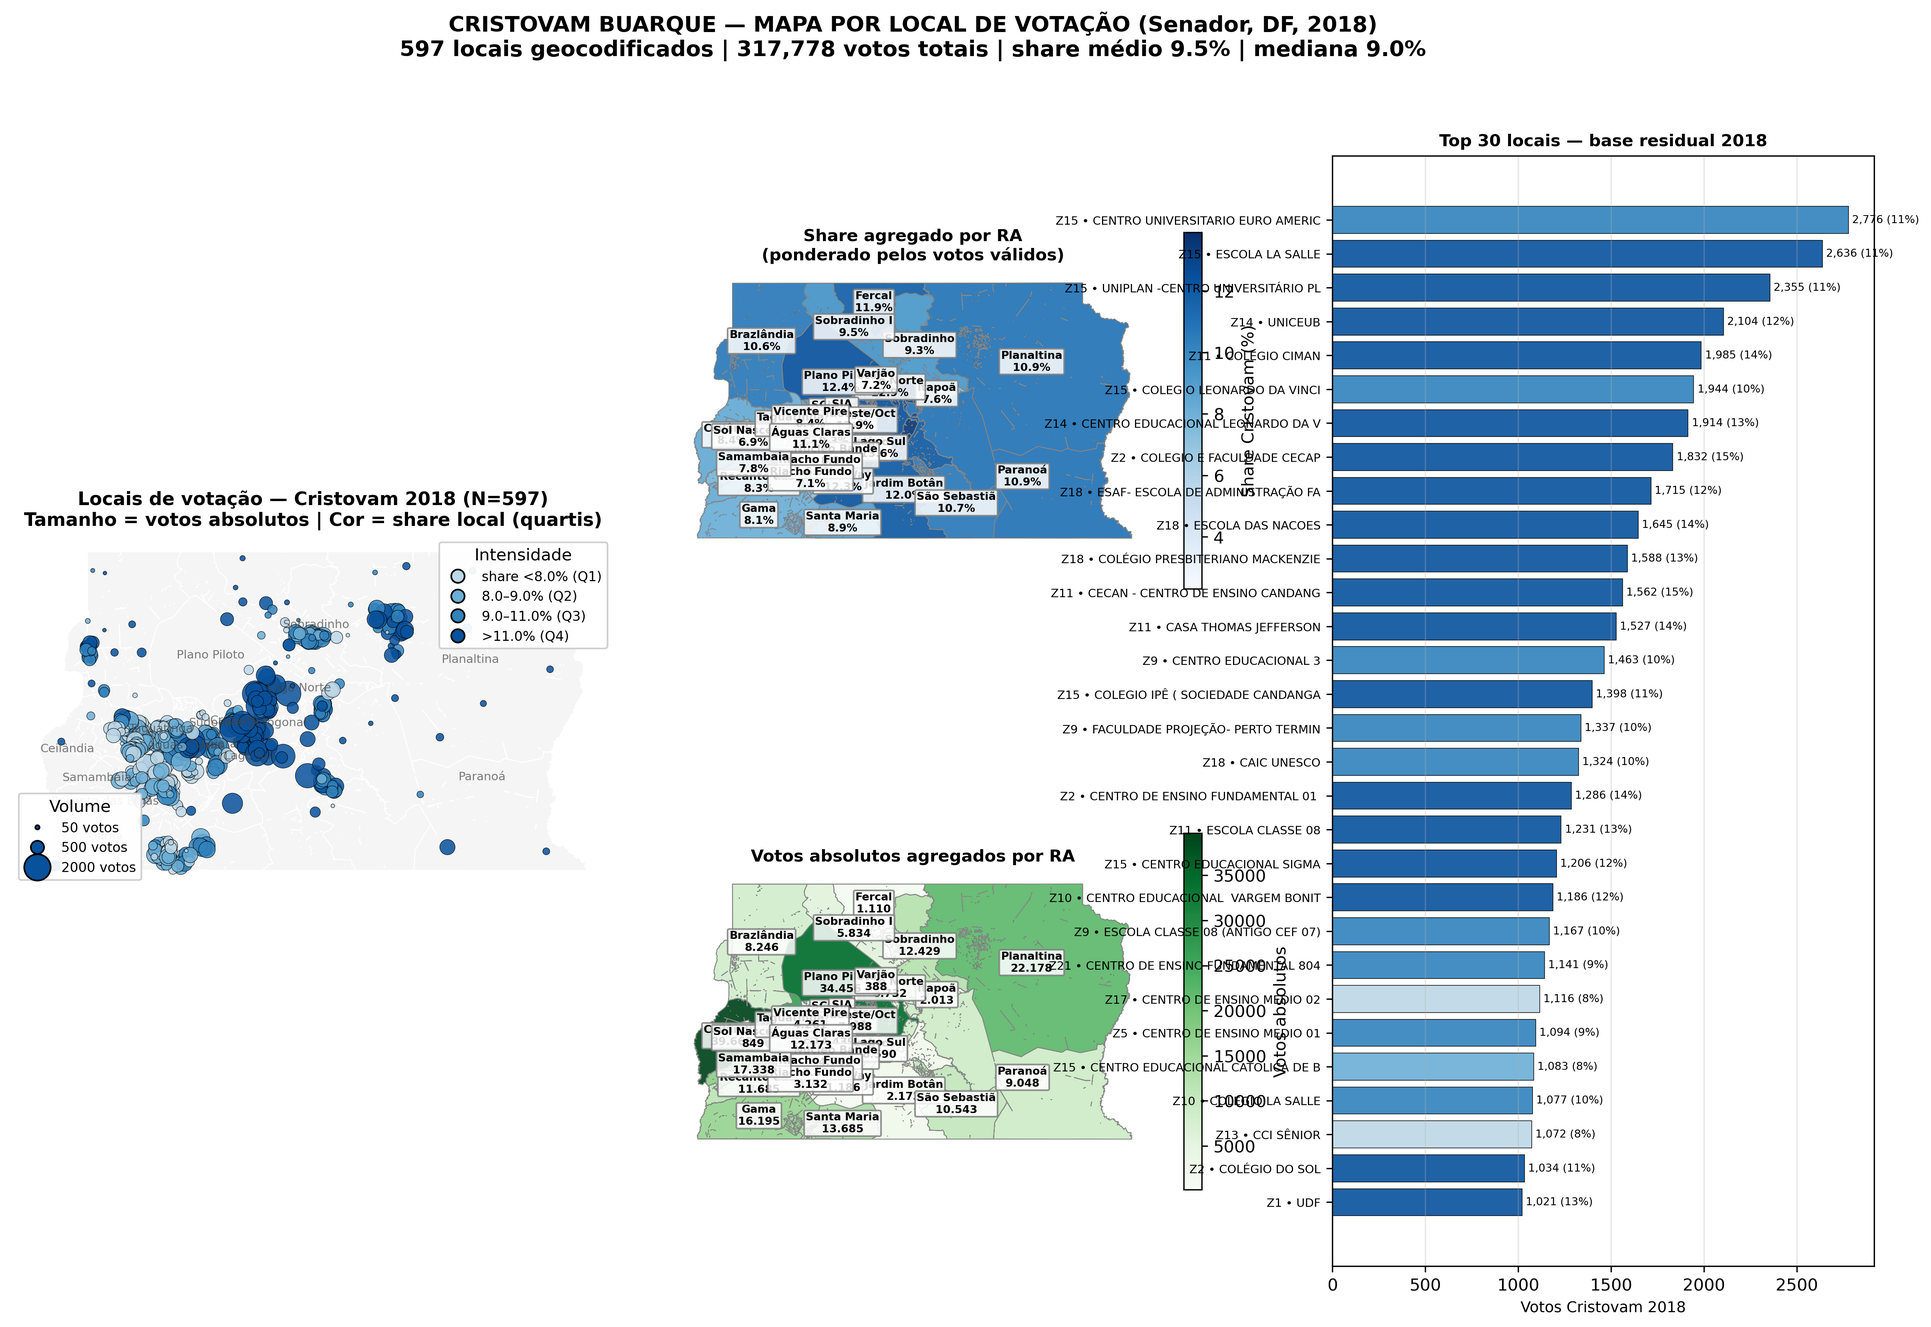
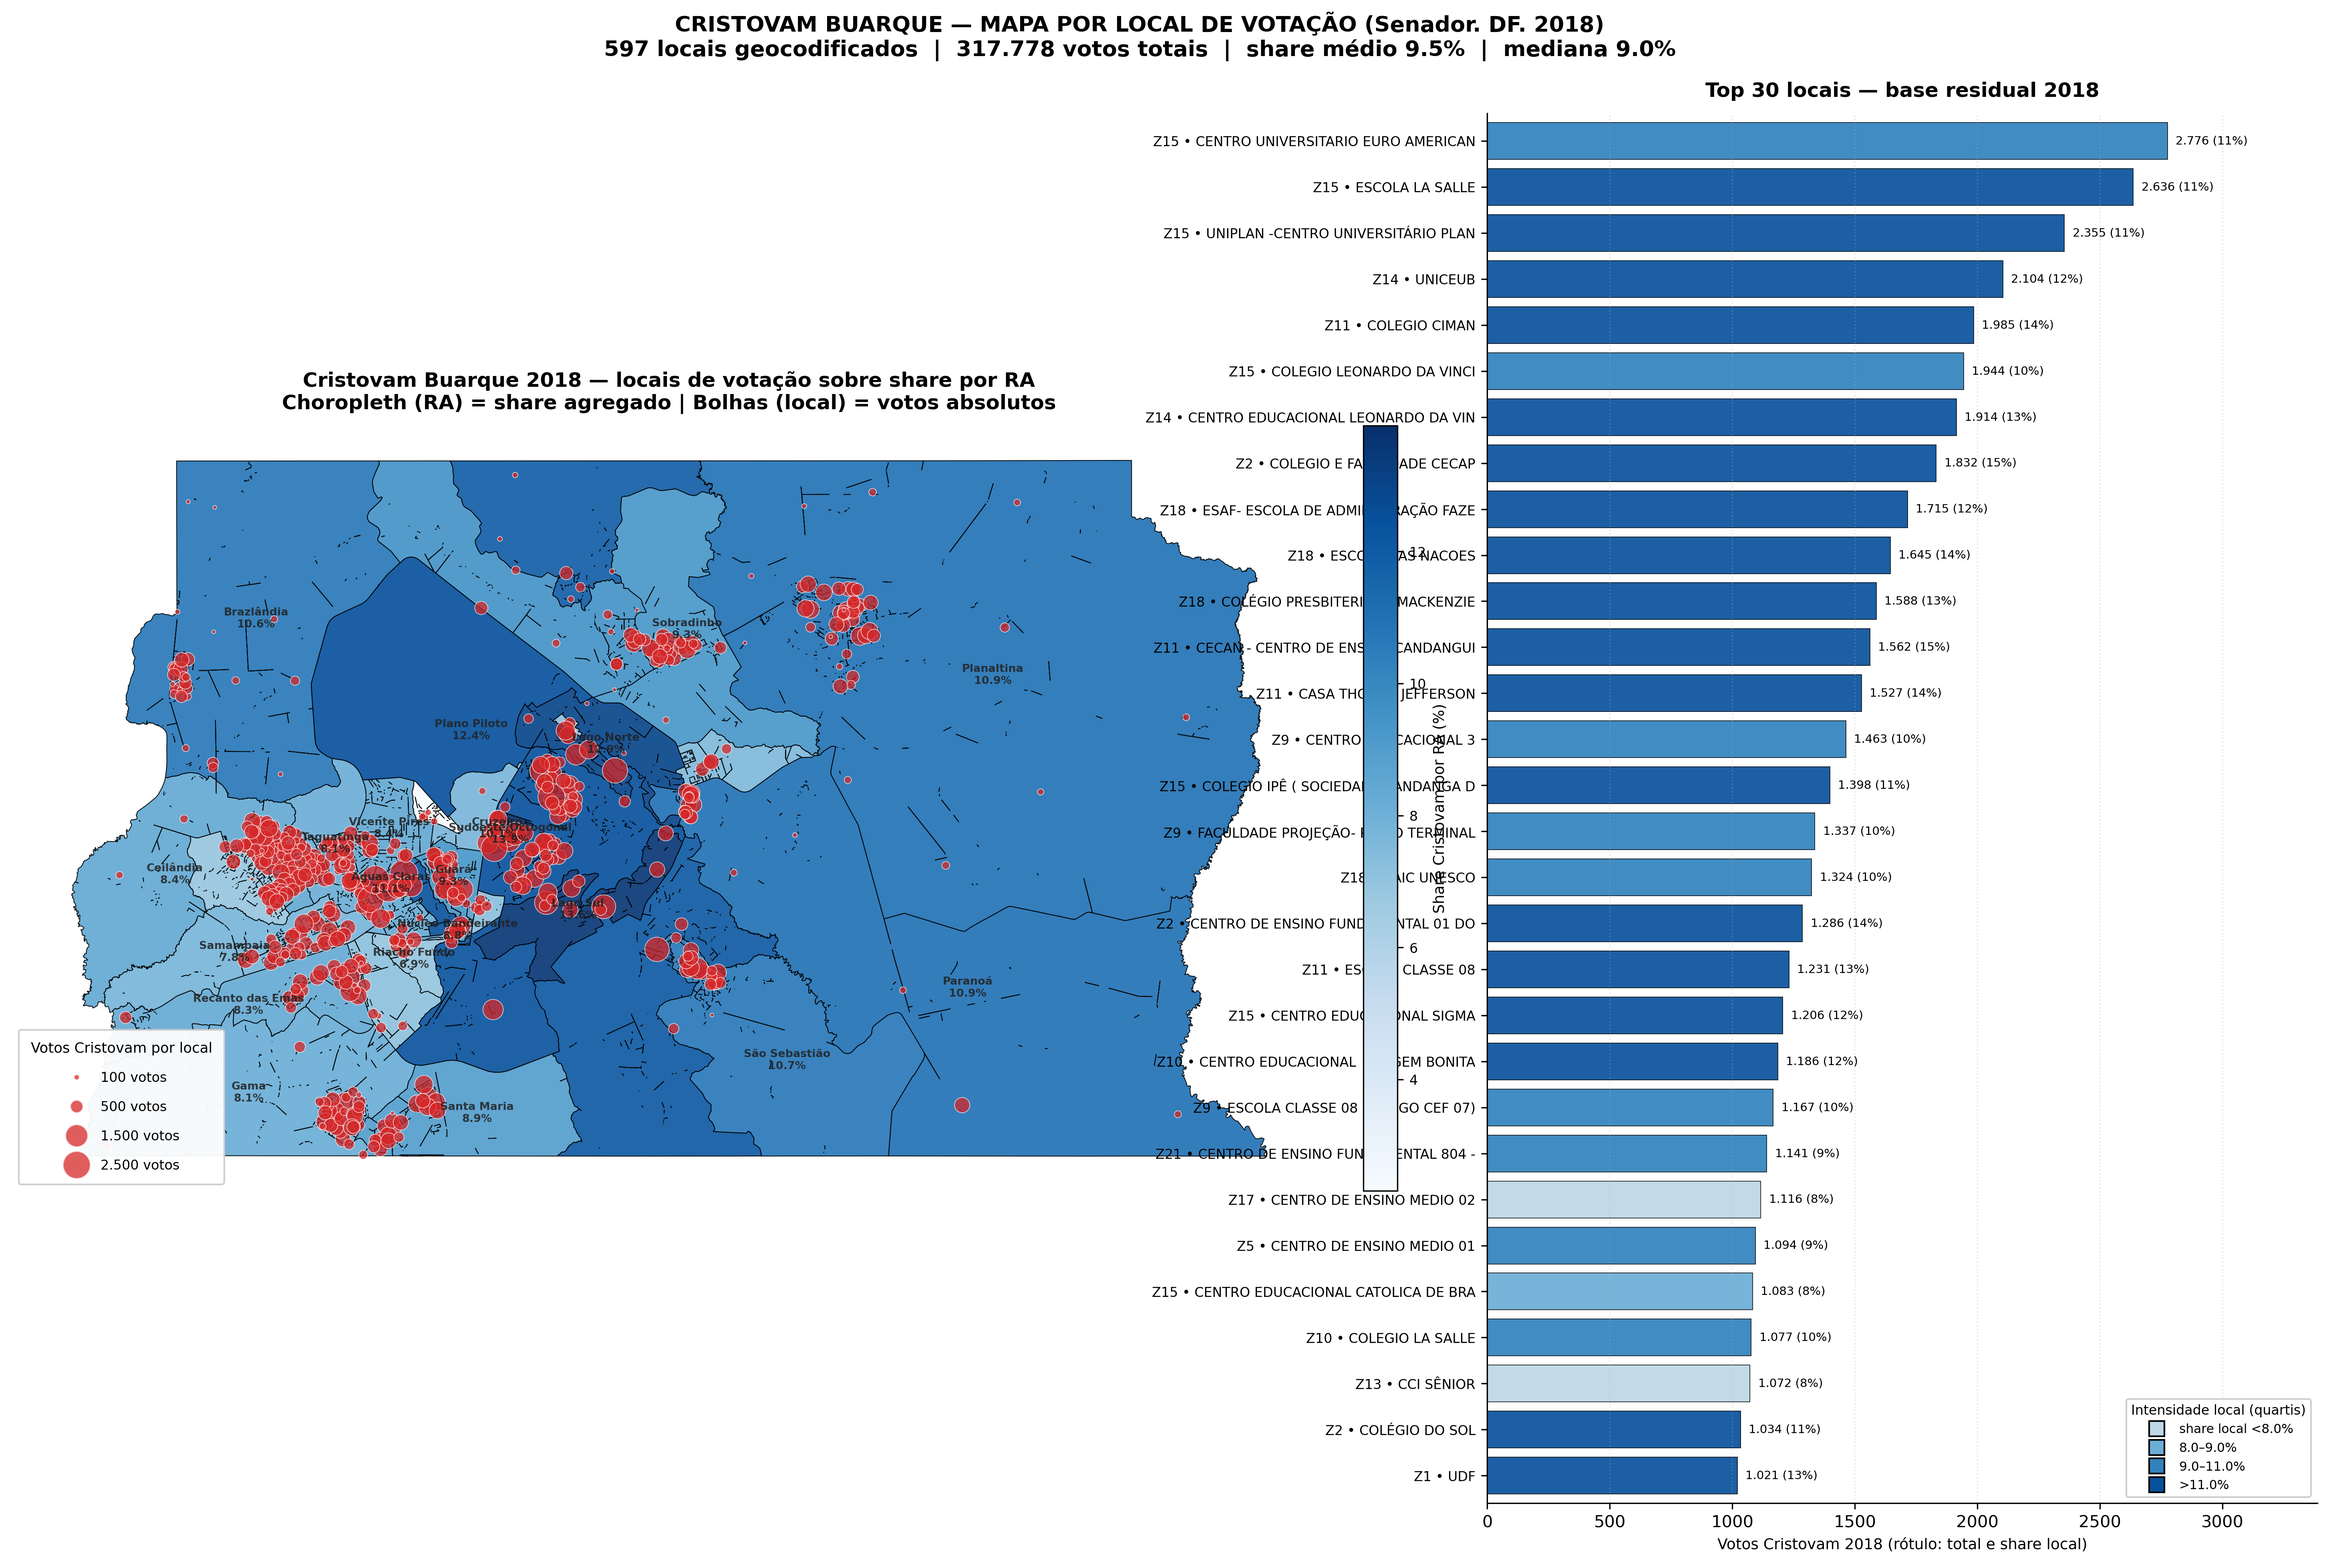
refactor(cristovam): mapa de locais — layout limpo, sem sobreposicoes
Versao anterior tinha 4 paineis com colorbars do geopandas se
espalhando para fora do bbox alocado, sobrepondo o ranking e o
mapa principal.

Novo layout:
- 1 mapa grande a esquerda: choropleth do share por RA (Blues) +
  bolhas vermelhas dos locais com tamanho = votos absolutos.
- Ranking top 30 a direita com barras coloridas por quartil de
  share local (4 niveis de azul).
- Colorbar do choropleth pinada via make_axes_locatable (so 2.5%
  da largura, sem invadir o ranking).
- Legenda de tamanho das bolhas dentro do mapa em canto inferior.
- Legenda de quartis dentro do ranking em canto inferior.

Removidos os 2 paineis duplicados (share+votos por RA) — agora
um unico mapa carrega ambas as camadas (RA via cor, local via
posicao+tamanho).

diff --git a/src/casos/cristovam/mapa_locais_cristovam.py b/src/casos/cristovam/mapa_locais_cristovam.py
@@ -37,7 +37,10 @@ import geopandas as gpd
 import matplotlib.pyplot as plt
 import numpy as np
 import pandas as pd
+from matplotlib.cm import ScalarMappable
+from matplotlib.colors import Normalize
 from matplotlib.lines import Line2D
+from mpl_toolkits.axes_grid1 import make_axes_locatable
 
 warnings.filterwarnings("ignore")
 
@@ -170,14 +173,89 @@ def main() -> None:
     print(f"   RAs com pelo menos 1 local: {com_dado}/{len(ras_plot)}")
 
     # ===== Plot =====
-    fig = plt.figure(figsize=(20, 12), dpi=120)
-    gs = fig.add_gridspec(2, 3, width_ratios=[1, 1, 0.9], hspace=0.18, wspace=0.10)
+    # Layout: 1 mapa grande (choropleth share por RA + bolhas de votos)
+    # + ranking top 30 à direita. Sem painéis duplicados, sem colorbars
+    # do geopandas (uso cax fixado via make_axes_locatable).
+    fig = plt.figure(figsize=(20, 13), dpi=120)
+    gs = fig.add_gridspec(1, 2, width_ratios=[1.7, 1.0], wspace=0.08)
+    ax_map = fig.add_subplot(gs[0, 0])
+    ax_rank = fig.add_subplot(gs[0, 1])
 
-    # PAINEL 1: bolhas nos locais sobre RAs
-    ax1 = fig.add_subplot(gs[:, 0])
-    ras_plot.plot(ax=ax1, facecolor="#f5f5f5", edgecolor="white", linewidth=0.6)
+    # ----- MAPA: choropleth share por RA (Blues) + bolhas vermelhas -----
+    com_dado_df = ras_plot[ras_plot["share"].notna()].copy()
+    vmin = float(com_dado_df["share"].min())
+    vmax = float(com_dado_df["share"].max())
+    cmap = plt.get_cmap("Blues")
+    norm = Normalize(vmin=vmin, vmax=vmax)
 
-    # Quartis de share para colorir
+    sem_dado = ras_plot[ras_plot["share"].isna()]
+    if not sem_dado.empty:
+        sem_dado.plot(ax=ax_map, color="#f0f0f0",
+                      edgecolor="#888", linewidth=0.5)
+    com_dado_df.plot(ax=ax_map, column="share", cmap=cmap,
+                     vmin=vmin, vmax=vmax,
+                     edgecolor="black", linewidth=0.5, alpha=0.92)
+
+    # Anotações curtas das RAs (somente as grandes, sem caixa branca)
+    grandes = ["Plano Piloto", "Ceilândia", "Taguatinga", "Samambaia",
+               "Lago Sul", "Lago Norte", "Águas Claras", "Gama",
+               "Planaltina", "Sobradinho", "Recanto das Emas", "Paranoá",
+               "Cruzeiro", "Sudoeste/Octogonal", "Guará", "Brazlândia",
+               "Núcleo Bandeirante", "Riacho Fundo", "Santa Maria",
+               "São Sebastião", "Vicente Pires"]
+    for _, r in com_dado_df.iterrows():
+        if r["name_subdistrict"] in grandes:
+            cx, cy = r.geometry.centroid.x, r.geometry.centroid.y
+            ax_map.annotate(
+                f"{r['name_subdistrict']}\n{r['share']:.1f}%",
+                xy=(cx, cy), ha="center", va="center", fontsize=6.5,
+                color="#222", fontweight="bold", alpha=0.85,
+            )
+
+    # Bolhas (locais) em vermelho — tamanho = votos absolutos
+    gdf["_size"] = np.clip(gdf["votos_cristovam"] / 8, 5, 280)
+    ax_map.scatter(
+        gdf["lon"], gdf["lat"], s=gdf["_size"],
+        facecolor="#d62728", edgecolor="white", linewidth=0.4, alpha=0.75,
+    )
+
+    ax_map.set_title(
+        f"Cristovam Buarque 2018 — locais de votação sobre share por RA\n"
+        f"Choropleth (RA) = share agregado | Bolhas (local) = votos absolutos",
+        fontsize=12, fontweight="bold", pad=10,
+    )
+    ax_map.set_axis_off()
+
+    # Colorbar do choropleth pinada à direita do mapa
+    divider = make_axes_locatable(ax_map)
+    cax = divider.append_axes("right", size="2.5%", pad=0.1,
+                              axes_class=plt.Axes)
+    sm = ScalarMappable(cmap=cmap, norm=norm)
+    sm.set_array([])
+    cb = fig.colorbar(sm, cax=cax)
+    cb.set_label("Share Cristovam por RA (%)", fontsize=9)
+    cb.ax.tick_params(labelsize=8)
+
+    # Legenda de tamanhos das bolhas — caixa flutuante no canto inferior
+    # esquerdo do mapa, sem cobrir o Plano Piloto (centro-leste)
+    sizes_demo = [100, 500, 1500, 2500]
+    handles_size = [
+        Line2D([], [], marker="o", linestyle="",
+               markerfacecolor="#d62728", markeredgecolor="white",
+               markersize=np.sqrt(np.clip(v / 8, 5, 280)),
+               alpha=0.75, label=f"{v:,} votos".replace(",", "."))
+        for v in sizes_demo
+    ]
+    ax_map.legend(
+        handles=handles_size, loc="lower left", fontsize=8,
+        title="Votos Cristovam por local", title_fontsize=8.5,
+        framealpha=0.95, labelspacing=1.2, borderpad=0.9,
+    )
+
+    # ----- RANKING top 30 -----
+    top30 = df.dropna(subset=["lat"]).nlargest(30, "votos_cristovam").iloc[::-1]
+
+    # Cor da barra = quartil de share local (4 níveis de azul)
     q = np.nanpercentile(gdf["share"], [25, 50, 75])
     cores_q = ["#bdd7e7", "#6baed6", "#3182bd", "#08519c"]
     def quartil(s):
@@ -185,136 +263,61 @@ def main() -> None:
         if s < q[1]: return 1
         if s < q[2]: return 2
         return 3
-    gdf["_qshare"] = gdf["share"].apply(quartil)
-    gdf["_cor"] = gdf["_qshare"].map(dict(enumerate(cores_q)))
-    gdf["_size"] = np.clip(gdf["votos_cristovam"] / 8, 5, 250)
-
-    ax1.scatter(gdf["lon"], gdf["lat"], s=gdf["_size"], c=gdf["_cor"],
-                edgecolor="black", linewidth=0.3, alpha=0.85)
-
-    # Anotar nomes de RA grandes
-    grandes = ["Plano Piloto", "Ceilândia", "Taguatinga", "Samambaia",
-               "Lago Sul", "Lago Norte", "Águas Claras", "Gama",
-               "Planaltina", "Sobradinho", "Recanto das Emas", "Paranoá",
-               "Cruzeiro", "Sudoeste/Octogonal", "Guará"]
-    for _, row in ras_plot.iterrows():
-        if row["name_subdistrict"] in grandes and row.geometry is not None:
-            cent = row.geometry.representative_point()
-            ax1.annotate(row["name_subdistrict"], (cent.x, cent.y),
-                         ha="center", va="center", fontsize=7,
-                         color="#444", alpha=0.7)
-    ax1.set_title(f"Locais de votação — Cristovam 2018 (N={len(gdf)})\n"
-                  f"Tamanho = votos absolutos | Cor = share local (quartis)",
-                  fontsize=11, fontweight="bold")
-    ax1.set_axis_off()
-
-    # Legenda tamanho
-    sizes_demo = [50, 500, 2000]
-    handles_size = [
-        Line2D([], [], marker="o", linestyle="",
-               markerfacecolor="#08519c", markeredgecolor="black",
-               markersize=np.sqrt(np.clip(v/8, 5, 250)),
-               label=f"{v} votos")
-        for v in sizes_demo
-    ]
-    handles_cor = [
-        Line2D([], [], marker="o", linestyle="", markerfacecolor=cores_q[0],
-               markeredgecolor="black", markersize=8,
-               label=f"share <{q[0]:.1f}% (Q1)"),
-        Line2D([], [], marker="o", linestyle="", markerfacecolor=cores_q[1],
-               markeredgecolor="black", markersize=8,
-               label=f"{q[0]:.1f}–{q[1]:.1f}% (Q2)"),
-        Line2D([], [], marker="o", linestyle="", markerfacecolor=cores_q[2],
-               markeredgecolor="black", markersize=8,
-               label=f"{q[1]:.1f}–{q[2]:.1f}% (Q3)"),
-        Line2D([], [], marker="o", linestyle="", markerfacecolor=cores_q[3],
-               markeredgecolor="black", markersize=8,
-               label=f">{q[2]:.1f}% (Q4)"),
-    ]
-    leg1 = ax1.legend(handles=handles_size, loc="lower left", fontsize=8,
-                      title="Volume", framealpha=0.92)
-    ax1.add_artist(leg1)
-    ax1.legend(handles=handles_cor, loc="upper right", fontsize=8,
-               title="Intensidade", framealpha=0.92)
-
-    # PAINEL 2: choropleth das RAs por share agregado
-    ax2 = fig.add_subplot(gs[0, 1])
-    ras_plot.boundary.plot(ax=ax2, color="#888", linewidth=0.5)
-    sem_dado = ras_plot[ras_plot["share"].isna()]
-    if not sem_dado.empty:
-        sem_dado.plot(ax=ax2, color="#f0f0f0", edgecolor="#888", linewidth=0.5)
-    com_dado_df = ras_plot[ras_plot["share"].notna()].copy()
-    com_dado_df.plot(ax=ax2, column="share", cmap="Blues",
-                     edgecolor="black", linewidth=0.4, alpha=0.92,
-                     legend=True,
-                     legend_kwds={"label": "Share Cristovam (%)",
-                                  "shrink": 0.7, "orientation": "vertical"})
-    for _, r in com_dado_df.iterrows():
-        cx, cy = r.geometry.centroid.x, r.geometry.centroid.y
-        ax2.annotate(
-            f"{r['name_subdistrict'][:12]}\n{r['share']:.1f}%",
-            xy=(cx, cy), ha="center", va="center", fontsize=6.5,
-            fontweight="bold",
-            bbox=dict(boxstyle="round,pad=0.15", facecolor="white",
-                      edgecolor="gray", alpha=0.85),
-        )
-    ax2.set_title("Share agregado por RA\n(ponderado pelos votos válidos)",
-                  fontsize=10, fontweight="bold")
-    ax2.set_axis_off()
-
-    # PAINEL 3: votos absolutos agregados por RA
-    ax3 = fig.add_subplot(gs[1, 1])
-    ras_plot.boundary.plot(ax=ax3, color="#888", linewidth=0.5)
-    sem_dado3 = ras_plot[ras_plot["votos_cristovam"].isna()]
-    if not sem_dado3.empty:
-        sem_dado3.plot(ax=ax3, color="#f0f0f0", edgecolor="#888", linewidth=0.5)
-    com_dado_df.plot(ax=ax3, column="votos_cristovam", cmap="Greens",
-                     edgecolor="black", linewidth=0.4, alpha=0.92,
-                     legend=True,
-                     legend_kwds={"label": "Votos absolutos",
-                                  "shrink": 0.7, "orientation": "vertical"})
-    for _, r in com_dado_df.iterrows():
-        cx, cy = r.geometry.centroid.x, r.geometry.centroid.y
-        ax3.annotate(
-            f"{r['name_subdistrict'][:12]}\n"
-            f"{int(r['votos_cristovam']):,}".replace(",", "."),
-            xy=(cx, cy), ha="center", va="center", fontsize=6.5,
-            fontweight="bold",
-            bbox=dict(boxstyle="round,pad=0.15", facecolor="white",
-                      edgecolor="gray", alpha=0.85),
-        )
-    ax3.set_title("Votos absolutos agregados por RA",
-                  fontsize=10, fontweight="bold")
-    ax3.set_axis_off()
-
-    # PAINEL 4: top 30 ranking
-    ax4 = fig.add_subplot(gs[:, 2])
-    top30 = df.dropna(subset=["lat"]).nlargest(30, "votos_cristovam").iloc[::-1]
     cores_bar = top30["share"].apply(quartil).map(dict(enumerate(cores_q)))
     labels = [
-        f"Z{int(r.NR_ZONA)} • {str(r.nome)[:32]}"
+        f"Z{int(r.NR_ZONA)} • {str(r.nome)[:34]}"
         for _, r in top30.iterrows()
     ]
-    ax4.barh(range(len(top30)), top30["votos_cristovam"],
-             color=cores_bar, edgecolor="black", linewidth=0.4, alpha=0.9)
-    ax4.set_yticks(range(len(top30)))
-    ax4.set_yticklabels(labels, fontsize=7)
+    ax_rank.barh(range(len(top30)), top30["votos_cristovam"],
+                 color=cores_bar, edgecolor="black", linewidth=0.4, alpha=0.92)
+    ax_rank.set_yticks(range(len(top30)))
+    ax_rank.set_yticklabels(labels, fontsize=8)
+    ax_rank.set_ylim(-0.6, len(top30) - 0.4)
+
+    # Rótulos numéricos no fim de cada barra
+    xmax = top30["votos_cristovam"].max()
     for i, (_, r) in enumerate(top30.iterrows()):
-        ax4.text(r.votos_cristovam + 20, i,
-                 f"{int(r.votos_cristovam):,} ({r.share:.0f}%)",
-                 va="center", fontsize=6.5)
-    ax4.set_xlabel("Votos Cristovam 2018", fontsize=9)
-    ax4.set_title("Top 30 locais — base residual 2018",
-                  fontsize=10, fontweight="bold")
-    ax4.grid(axis="x", alpha=0.3)
+        ax_rank.text(
+            r.votos_cristovam + xmax * 0.012, i,
+            f"{int(r.votos_cristovam):,} ({r.share:.0f}%)".replace(",", "."),
+            va="center", fontsize=7,
+        )
+    ax_rank.set_xlim(0, xmax * 1.22)
+    ax_rank.set_xlabel("Votos Cristovam 2018 (rótulo: total e share local)",
+                       fontsize=9)
+    ax_rank.set_title("Top 30 locais — base residual 2018",
+                      fontsize=12, fontweight="bold", pad=10)
+    ax_rank.grid(axis="x", alpha=0.3, linestyle=":")
+    ax_rank.spines[["top", "right"]].set_visible(False)
+
+    # Legenda dos quartis de share dentro do ranking, em cima
+    handles_cor = [
+        Line2D([], [], marker="s", linestyle="", markerfacecolor=cores_q[0],
+               markeredgecolor="black", markersize=9,
+               label=f"share local <{q[0]:.1f}%"),
+        Line2D([], [], marker="s", linestyle="", markerfacecolor=cores_q[1],
+               markeredgecolor="black", markersize=9,
+               label=f"{q[0]:.1f}–{q[1]:.1f}%"),
+        Line2D([], [], marker="s", linestyle="", markerfacecolor=cores_q[2],
+               markeredgecolor="black", markersize=9,
+               label=f"{q[1]:.1f}–{q[2]:.1f}%"),
+        Line2D([], [], marker="s", linestyle="", markerfacecolor=cores_q[3],
+               markeredgecolor="black", markersize=9,
+               label=f">{q[2]:.1f}%"),
+    ]
+    ax_rank.legend(handles=handles_cor, loc="lower right", fontsize=7.5,
+                   title="Intensidade local (quartis)", title_fontsize=8,
+                   framealpha=0.95)
 
     fig.suptitle(
         "CRISTOVAM BUARQUE — MAPA POR LOCAL DE VOTAÇÃO (Senador, DF, 2018)\n"
-        f"{len(gdf):,} locais geocodificados | "
-        f"{int(df['votos_cristovam'].sum()):,} votos totais | "
-        f"share médio {df['share'].mean():.1f}% | mediana {df['share'].median():.1f}%",
-        fontsize=13, fontweight="bold",
+        f"{len(gdf):,} locais geocodificados  |  "
+        f"{int(df['votos_cristovam'].sum()):,} votos totais  |  "
+        f"share médio {df['share'].mean():.1f}%  |  "
+        f"mediana {df['share'].median():.1f}%".replace(",", "."),
+        fontsize=13, fontweight="bold", y=0.995,
     )
+    fig.subplots_adjust(top=0.93, bottom=0.04, left=0.02, right=0.99)
     SAIDA_FIG.parent.mkdir(parents=True, exist_ok=True)
     fig.savefig(SAIDA_FIG, dpi=300, bbox_inches="tight")
     plt.close()
